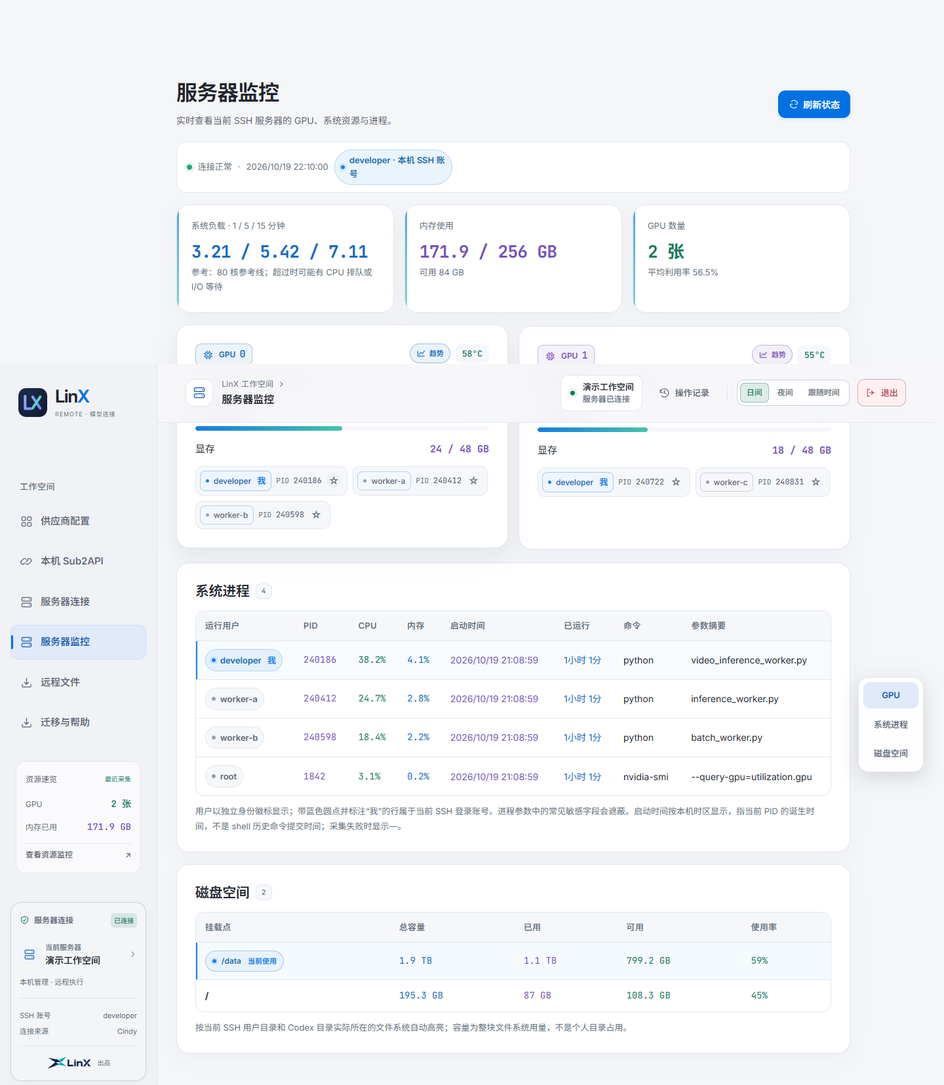
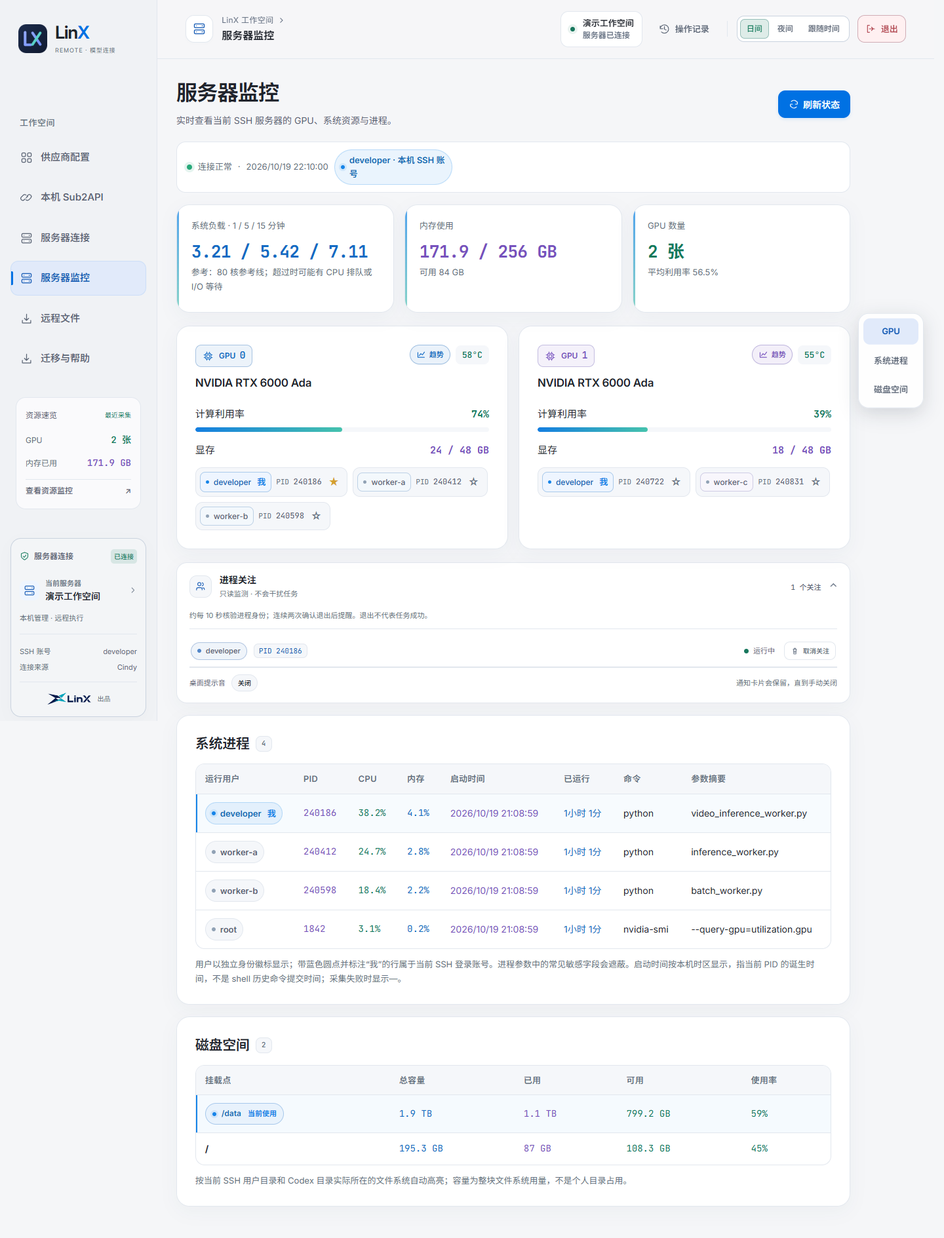
Release 1.9.2: polish persistent process alerts
Assisted-by: Cindy (https://cindy.app)

diff --git a/tools_ui.js b/tools_ui.js
@@ -1,7 +1,7 @@
 // Local UI state only; all remote operations use the existing authenticated API.
-const Tools={history:[],watches:[],events:[],seen:0,polling:false,trend:null,trendMetric:'utilization',minutes:5,diagnostics:null,diagnosing:false,files:null,path:'',offset:0,fileBusy:false,fileError:'',jobs:new Map(),loading:false};
+const Tools={history:[],watches:[],events:[],alerts:[],seen:0,polling:false,trend:null,trendMetric:'utilization',minutes:5,diagnostics:null,diagnosing:false,files:null,path:'',offset:0,fileBusy:false,fileError:'',jobs:new Map(),loading:false};
 function toolConnection(){return JSON.stringify(['connection_source','cindy_host','host','alias','user','port','identity','home'].map(k=>S.settings?.[k]||''))}
-function syncToolConnection(){const key=toolConnection();if(Tools.connection!==key){Tools.connection=key;Tools.history=[];Tools.watches=[];Tools.events=[];Tools.files=null;Tools.path='';Tools.diagnostics=null;Tools.fileError='';Tools.loading=false;if(Tools.trend!==null)closeTrend()}}
+function syncToolConnection(){const key=toolConnection();if(Tools.connection!==key){Tools.connection=key;Tools.history=[];Tools.watches=[];Tools.events=[];Tools.alerts=[];renderWatchAlerts();Tools.files=null;Tools.path='';Tools.diagnostics=null;Tools.fileError='';Tools.loading=false;if(Tools.trend!==null)closeTrend()}}
 function diagnosticPanel(){const d=Tools.diagnostics;return '<section class="panel tools-diagnostics"><div class="panelhead"><div><h2>连接诊断</h2><p>逐段检查 SSH、兼容桥、隧道和供应商；只读检查，不安装或重启服务。</p></div><button id="tools-diagnose" '+(Tools.diagnosing?'disabled':'')+'>'+(Tools.diagnosing?'检查中…':'一键诊断')+'</button></div>'+(d?'<div class="diagnostic-list">'+d.rows.map(r=>'<div class="diagnostic-item"><span class="diagnostic-state" data-state="'+E(r.status)+'">'+({ok:'正常',warning:'注意',error:'异常',skip:'无需 / 未检查'}[r.status]||'未知')+'</span><div><b>'+E(r.name)+'</b><p>'+E(r.detail)+'</p></div></div>').join('')+'</div><p class="monitor-note">检查时间：'+E(new Date(d.checked_at*1000).toLocaleString())+'。模型列表可达不代表推理请求已验证。</p>':'')+'</section>'}
 async function runDiagnostics(){if(Tools.diagnosing)return;Tools.diagnosing=true;const key=toolConnection();render();try{const d=await api('connection_diagnostics');if(key===toolConnection())Tools.diagnostics=d}catch(e){toast(e.message,true)}finally{Tools.diagnosing=false;if(S.page==='connection')render()}}
 function gpuHistory(gpu){return '<button class="gpu-trend-trigger" data-gpu-trend="'+E(gpu.index)+'" aria-label="查看 GPU '+E(gpu.index)+' 历史趋势" aria-haspopup="dialog"><svg viewBox="0 0 24 24" aria-hidden="true"><path d="M4 18V6m0 12h16M7 14l4-5 4 3 5-7"/></svg><span>趋势</span></button>'}
@@ -44,8 +44,10 @@ function fileKind(entry){
 }
 function fileTypeIcon(entry){const type=fileKind(entry),documentPath='<path d="M7 3.5h9l5 5V25a2 2 0 0 1-2 2H7a2 2 0 0 1-2-2V5.5a2 2 0 0 1 2-2Z"/><path class="file-icon-fold" d="M16 3.5V9h5"/>';const symbols={folder:'<path d="M3 9V6.5A2.5 2.5 0 0 1 5.5 4h6l3 3h9A2.5 2.5 0 0 1 26 9.5V23a2 2 0 0 1-2 2H5a2 2 0 0 1-2-2V9Z"/><path d="M3 10h23"/>',link:'<path d="m10 18 8-8m-6-2 2-2a5 5 0 0 1 7 7l-2 2m-2 7-2 2a5 5 0 0 1-7-7l2-2"/>',image:'<path d="m7 23 5-6 4 4 2-3 3 5"/><circle cx="11" cy="13" r="2"/>',code:'<path d="m11 14-3 3 3 3m7-6 3 3-3 3m-5 2 2-8"/>',sheet:'<path d="M9 13h9v10H9Zm0 4h9m-9 3h9m-5-7v10"/>',slides:'<path d="M9 13h9v8H9Zm5 8v3m-3 0h6m-6-6 2-2 2 1 2-2"/>',archive:'<path d="M14 10v3m0 2v3m0 2v3m-2-10h4m-4 5h4"/>',model:'<rect x="10" y="13" width="9" height="9" rx="2"/><path d="M13 10v3m3-3v3m-3 9v3m3-3v3m-9-9h3m-3 3h3m9-3h3m-3 3h3"/>',media:'<path d="m12 13 7 4-7 4Z"/>',markdown:'<path d="M8 21v-7l3 4 3-4v7m3-5v5m-2-2 2 2 2-2"/>',config:'<path d="M9 14h10m-10 7h10"/><circle cx="12" cy="14" r="2"/><circle cx="16" cy="21" r="2"/>',text:'<path d="M9 14h8m-8 4h8m-8 4h6"/>',document:'<path d="M9 14h8m-8 4h8m-8 4h6"/>',pdf:'<path d="m9 22 5-10 4 10m-7-3h6"/>'};return '<span class="file-type-icon file-type-'+type.kind+'" title="'+E(type.label)+'" data-file-type="'+type.kind+'"><svg viewBox="0 0 30 30" aria-hidden="true">'+(type.kind==='folder'||type.kind==='link'?symbols[type.kind]:documentPath+(symbols[type.kind]||symbols.text))+'</svg><span class="visually-hidden">'+E(type.label)+'</span></span>'}
 function processWatchButton(process){const watched=Tools.watches.find(w=>w.pid===process.pid&&w.ticks===process.start_ticks);if(!process.start_ticks)return '';return '<button type="button" class="process-watch" data-watch-pid="'+E(process.pid)+'" title="'+(watched?'取消关注此进程':'关注此进程，退出后提醒')+'" aria-label="'+(watched?'取消关注':'关注进程')+' PID '+E(process.pid)+'" aria-pressed="'+!!watched+'">'+(watched?'★':'☆')+'</button>'}
-function watchesPanel(){if(!Tools.watches.length&&!Tools.events.length)return '';const states={running:'运行中',checking:'正在确认退出',disconnected:'连接中断，等待恢复',unknown:'权限或状态不可读',exited:'已退出',restarted:'服务器已重启'};return '<details class="panel monitor-section watch-panel"><summary>进程关注 <span class="count">'+Tools.watches.length+'</span></summary><p class="monitor-note">约 10 秒核对 PID、启动标识和服务器启动身份，连续两次确认退出才提醒。退出不代表任务成功。仅在 LinX 管理服务运行期间有效，不会终止任务。</p>'+Tools.watches.map(w=>'<div class="watch-item"><span>'+E(w.user)+' · <b class="numeric">PID '+E(w.pid)+'</b></span><span>'+E(states[w.state]||w.state)+'</span><button class="subtle" data-watch-remove="'+E(w.id)+'">取消关注</button></div>').join('')+Tools.events.slice(-10).reverse().map(e=>'<p class="monitor-note">'+E(new Date(e.at*1000).toLocaleTimeString()+' · '+e.message)+'</p>').join('')+'</details>'}
-async function pollTools(){if(Tools.polling||!S.settings||!S.loaded)return;syncToolConnection();Tools.polling=true;const key=toolConnection();try{const d=await api('watch_status');if(key!==toolConnection())return;Tools.watches=d.watches||[];Tools.events=d.events||[];for(const e of Tools.events){if(e.id<=Tools.seen)continue;Tools.seen=e.id;toast(e.message);try{if('Notification'in window&&Notification.permission==='granted')new Notification('LinX Remote',{body:e.message,tag:'linx-process-'+e.id})}catch(_){}}if(S.page==='monitor'){const history=await api('monitor_history');if(key===toolConnection())Tools.history=history.samples||[];refreshTrend();if(S.page==='monitor'&&!document.activeElement?.closest('details'))render()}}catch(_){ }finally{Tools.polling=false}}
+function renderWatchAlerts(){let host=$('#watch-alert-host');if(!host){host=document.createElement('div');host.id='watch-alert-host';document.body.append(host)}host.innerHTML=Tools.alerts.map(e=>'<article class="watch-alert" role="alert"><div class="watch-alert-mark">!</div><div class="watch-alert-copy"><strong>进程关注提醒</strong><b>PID '+E(e.pid)+' 已退出</b><span>'+E(new Date(e.at*1000).toLocaleString())+'</span><small>进程退出不代表任务成功，请查看任务结果。</small></div><button type="button" class="watch-alert-close" data-dismiss-watch-alert="'+E(e.id)+'" aria-label="关闭进程退出提醒">'+I('close')+'</button></article>').join('');host.querySelectorAll('[data-dismiss-watch-alert]').forEach(b=>b.onclick=()=>{Tools.alerts=Tools.alerts.filter(e=>String(e.id)!==String(b.dataset.dismissWatchAlert));renderWatchAlerts();if(S.page==='monitor')render()});const shortcut=$('#watch-alert-shortcut');if(shortcut){shortcut.hidden=!Tools.alerts.length;shortcut.innerHTML=Tools.alerts.length?'提醒 <b>'+Tools.alerts.length+'</b> 条':'';shortcut.onclick=()=>{navigate('monitor');const panel=$('.watch-panel');if(panel)panel.open=true}}}
+function playWatchAlert(){try{const C=window.AudioContext||window.webkitAudioContext;if(!C)return;const c=new C(),o=c.createOscillator(),g=c.createGain();o.type='sine';o.frequency.value=740;g.gain.setValueAtTime(.0001,c.currentTime);g.gain.exponentialRampToValueAtTime(.07,c.currentTime+.025);g.gain.exponentialRampToValueAtTime(.0001,c.currentTime+.28);o.connect(g);g.connect(c.destination);o.start();o.stop(c.currentTime+.3);o.onended=()=>c.close()}catch(_){}}
+function watchesPanel(){if(!Tools.watches.length&&!Tools.events.length)return '';const states={running:'运行中',checking:'正在确认退出',disconnected:'等待连接恢复',unknown:'状态不可读',exited:'已退出',restarted:'服务器已重启'};return '<details class="panel monitor-section watch-panel"><summary class="watch-summary"><span class="watch-summary-icon"><svg viewBox="0 0 24 24" aria-hidden="true"><path d="M16 20v-1.5a3.5 3.5 0 0 0-3.5-3.5h-5A3.5 3.5 0 0 0 4 18.5V20"/><circle cx="10" cy="7.5" r="3.5"/><path d="M16 4.5a3.5 3.5 0 0 1 0 6.8m1 4.2h1a3 3 0 0 1 3 3v1"/></svg></span><span class="watch-summary-title"><b>进程关注</b><small>只读监测 · 不会干扰任务</small></span><span class="watch-summary-count">'+Tools.watches.length+' 个关注</span>'+(Tools.alerts.length?'<span class="watch-unread">'+Tools.alerts.length+' 条未读</span>':'')+'<span class="watch-chevron">⌄</span></summary><div class="watch-body"><p class="watch-explainer">约每 10 秒核验进程身份；连续两次确认退出后提醒。退出不代表任务成功。</p><div class="watch-list">'+Tools.watches.map(w=>'<div class="watch-item"><span class="watch-process"><span class="watch-user-pill"><i></i><b>'+E(w.user||'未知用户')+'</b></span><code>PID '+E(w.pid)+'</code></span><span class="watch-state" data-watch-state="'+E(w.state)+'"><i></i>'+E(states[w.state]||w.state)+'</span><button class="watch-unfollow" data-watch-remove="'+E(w.id)+'" title="取消关注此进程" aria-label="取消关注 PID '+E(w.pid)+'"><svg viewBox="0 0 24 24" aria-hidden="true"><path d="M7 7h10m-9 0 1 13h6l1-13M10 7V4h4v3m-3 4v5m2-5v5"/></svg><span>取消关注</span></button></div>').join('')+'</div>'+(Tools.events.length?'<div class="watch-history"><b>最近事件</b>'+Tools.events.slice(-5).reverse().map(e=>'<div><time>'+E(new Date(e.at*1000).toLocaleTimeString())+'</time><span>'+E(e.message)+'</span></div>').join('')+'</div>':'')+'<div class="watch-preferences"><span>桌面提示音</span><button type="button" class="watch-sound-toggle" aria-pressed="'+(localStorage.getItem('linxWatchSound')==='true')+'">'+(localStorage.getItem('linxWatchSound')==='true'?'开启':'关闭')+'</button><small>通知卡片会保留，直到手动关闭</small></div></div></details>'}
+async function pollTools(){if(Tools.polling||!S.settings||!S.loaded)return;syncToolConnection();Tools.polling=true;const key=toolConnection();try{const d=await api('watch_status');if(key!==toolConnection())return;Tools.watches=d.watches||[];Tools.events=d.events||[];for(const e of Tools.events){if(e.id<=Tools.seen)continue;Tools.seen=e.id;Tools.alerts.push(e);renderWatchAlerts();if(localStorage.getItem('linxWatchSound')==='true')playWatchAlert();toast(e.message);try{if('Notification'in window&&Notification.permission==='granted')new Notification('LinX Remote',{body:e.message,tag:'linx-process-'+e.id})}catch(_){}}if(S.page==='monitor'){const history=await api('monitor_history');if(key===toolConnection())Tools.history=history.samples||[];refreshTrend();if(S.page==='monitor'&&!document.activeElement?.closest('details'))render()}}catch(_){ }finally{Tools.polling=false}}
 async function toggleWatch(pid){const all=[...(S.monitor?.processes||[]),...(S.monitor?.gpus||[]).flatMap(g=>g.processes||[])],p=all.find(p=>String(p.pid)===String(pid));if(!p)return;const old=Tools.watches.find(w=>w.pid===p.pid&&w.ticks===p.start_ticks);try{if(!old&&'Notification'in window&&Notification.permission==='default')Notification.requestPermission().catch(()=>{});const d=old?await api('watch_remove',{id:old.id}):await api('watch_add',{pid:p.pid,ticks:p.start_ticks,user:p.user});Tools.watches=d.watches||[];Tools.events=d.events||[];render();toast(old?'已取消关注':'已关注；请保持 LinX Remote 运行以接收提醒')}catch(e){toast(e.message,true)}}
 function filesPage(){const f=Tools.files;const jobs=[...Tools.jobs.values()];return heading('远程文件','通过当前 SSH 浏览服务器目录，上传代码或下载结果。')+'<section class="panel"><form id="files-form" class="file-toolbar"><button type="button" id="files-home">个人目录</button><button type="button" id="files-up" '+(!f?'disabled':'')+'>上一级</button><input id="files-path" aria-label="服务器目录" value="'+E(Tools.path||f?.path||'')+'" placeholder="服务器绝对目录，留空进入个人目录"><button type="submit" '+(Tools.fileBusy?'disabled':'')+'>'+(Tools.fileBusy?'读取中…':'打开 / 刷新')+'</button></form><div class="file-toolbar"><label class="file-picker">选择本机文件上传<input id="files-upload" type="file" '+(!f?'disabled':'')+'></label><span class="monitor-note">单文件传输 · SHA256 校验 · 同名文件不覆盖</span></div>'+(Tools.fileError?'<p class="notice error">'+E(Tools.fileError)+'</p>':'')+'<div class="monitor-table-scroll"><table class="files-table"><thead><tr><th>名称</th><th>大小</th><th>修改时间</th><th>操作</th></tr></thead><tbody>'+(f?(f.entries||[]).map((entry,i)=>'<tr><td><button class="textbutton file-name" data-file-open="'+i+'" '+(entry.kind==='directory'?'':'disabled')+'>'+fileTypeIcon(entry)+'<span>'+E(entry.name)+'</span></button></td><td class="numeric">'+(entry.kind==='file'?monSize(entry.size/1024):E({directory:'目录',link:'符号链接',special:'特殊文件'}[entry.kind]||''))+'</td><td>'+E(new Date(entry.modified_at*1000).toLocaleString())+'</td><td>'+(entry.kind==='file'?'<button data-file-download="'+i+'">下载</button>':'')+'</td></tr>').join('')||'<tr><td colspan="4">此目录为空</td></tr>':'<tr><td colspan="4">打开目录后显示文件</td></tr>')+'</tbody></table></div><div class="file-toolbar"><button id="files-prev" '+(!f||!f.offset?'disabled':'')+'>上一页</button><span class="monitor-note">每页最多 200 项'+(f?' · 第 '+(Math.floor(f.offset/200)+1)+' 页':'')+'</span><button id="files-next" '+(!f?.more?'disabled':'')+'>下一页</button></div><p class="monitor-note">只显示当前 SSH 账号可访问的内容；文件夹可点击进入。符号链接和设备不提供下载；正在写入的文件可能校验失败，建议下载已完成的结果文件。</p></section><section class="panel monitor-section"><h2>文件传输</h2><p class="monitor-note">传输期间请保持软件运行。下载会先暂存本机并校验，再点击“保存到本机”；暂存文件一小时后清理。上传直接通过 SSH 流式传输，失败可重试。</p><div id="file-jobs">'+(jobs.length?jobs.map(j=>transferRow(j)).join(''):'<p class="monitor-note">暂无传输</p>')+'</div></section>'}
 function transferRow(j){const pct=j.total?Math.min(100,100*j.transferred/j.total):j.state==='done'?100:0;const labels={pending:'等待传输',running:'传输中',done:'已完成并校验',failed:'失败',saving:'正在保存'};return '<article class="transfer-row"><div class="row"><b>'+E(j.name)+'</b><span>'+E(j.direction==='upload'?'上传':'下载')+' · '+E(labels[j.state]||j.state)+'</span></div><progress max="100" value="'+pct+'" aria-label="'+E(j.name)+' 传输进度"></progress><p class="monitor-note numeric">'+monSize(j.transferred/1024)+' / '+monSize(j.total/1024)+' · '+monNum(pct)+'%</p>'+(j.error?'<p class="notice error">'+E(j.error)+'</p>':'')+(j.sha256?'<details><summary>SHA256 校验值</summary><code class="transfer-hash">'+E(j.sha256)+'</code></details>':'')+'<div class="actions">'+(j.direction==='download'&&j.state==='done'?'<button data-transfer-save="'+E(j.id)+'">保存到本机</button>':'')+(['done','failed','pending'].includes(j.state)?'<button class="subtle" data-transfer-discard="'+E(j.id)+'">清理记录'+(j.direction==='download'?'与暂存':'')+'</button>':'')+'</div></article>'}
@@ -55,6 +57,6 @@ async function startUpload(file){if(!file||!Tools.files)return;let id;try{const 
 async function saveDownload(id){const j=Tools.jobs.get(id);if(!j)return;let target=null;try{if(typeof window.showSaveFilePicker==='function'){try{target=await showSaveFilePicker({suggestedName:j.name})}catch(e){if(e.name==='AbortError')return;throw e}}const response=await fetch('/transfer/download',{method:'POST',headers:{'X-Kit-Token':token,'X-Transfer-Id':id}});if(!response.ok)throw Error('下载暂存已失效，请重新下载');if(target){const writable=await target.createWritable();await response.body.pipeTo(writable)}else{if(j.total>256*1024*1024)throw Error('当前浏览器无法流式保存大文件，请使用支持文件保存的 Chrome 或 Edge');const blob=await response.blob(),url=URL.createObjectURL(blob),a=document.createElement('a');a.href=url;a.download=j.name;a.click();setTimeout(()=>URL.revokeObjectURL(url),60000)}toast('文件已保存：'+j.name)}catch(e){toast(e.message||'文件保存未完成，请重试',true)}}
 function bindFiles(){if(!$('#files-form'))return;$('#files-form').onsubmit=e=>{e.preventDefault();loadFiles($('#files-path').value)};$('#files-path').oninput=e=>Tools.path=e.target.value;$('#files-home').onclick=()=>loadFiles('');$('#files-up').onclick=()=>loadFiles(Tools.files?.parent||'');$('#files-prev').onclick=()=>loadFiles(Tools.files.path,Math.max(0,Tools.files.offset-200));$('#files-next').onclick=()=>loadFiles(Tools.files.path,Tools.files.offset+200);$('#files-upload').onchange=e=>startUpload(e.target.files[0]);document.querySelectorAll('[data-file-open]').forEach(b=>b.onclick=()=>loadFiles(Tools.files.entries[Number(b.dataset.fileOpen)].path));document.querySelectorAll('[data-file-download]').forEach(b=>b.onclick=()=>startDownload(Tools.files.entries[Number(b.dataset.fileDownload)]));bindTransferActions()}
 function bindTransferActions(){document.querySelectorAll('[data-transfer-save]').forEach(b=>b.onclick=()=>saveDownload(b.dataset.transferSave));document.querySelectorAll('[data-transfer-discard]').forEach(b=>b.onclick=async()=>{try{await api('transfer_discard',{id:b.dataset.transferDiscard});Tools.jobs.delete(b.dataset.transferDiscard);render()}catch(e){toast(e.message,true)}})}
-function bindToolFeatures(){syncToolConnection();if($('#tools-diagnose'))$('#tools-diagnose').onclick=runDiagnostics;document.querySelectorAll('[data-gpu-trend]').forEach(b=>b.onclick=()=>openTrend(b.dataset.gpuTrend));if(Tools.trend!==null&&S.page!=='monitor')closeTrend();document.querySelectorAll('[data-watch-pid]').forEach(b=>b.onclick=()=>toggleWatch(b.dataset.watchPid));document.querySelectorAll('[data-watch-remove]').forEach(b=>b.onclick=async()=>{try{const d=await api('watch_remove',{id:b.dataset.watchRemove});Tools.watches=d.watches||[];render()}catch(e){toast(e.message,true)}});bindFiles()}
+function bindToolFeatures(){syncToolConnection();if($('#tools-diagnose'))$('#tools-diagnose').onclick=runDiagnostics;document.querySelectorAll('[data-gpu-trend]').forEach(b=>b.onclick=()=>openTrend(b.dataset.gpuTrend));if(Tools.trend!==null&&S.page!=='monitor')closeTrend();document.querySelectorAll('[data-watch-pid]').forEach(b=>b.onclick=()=>toggleWatch(b.dataset.watchPid));document.querySelectorAll('[data-watch-remove]').forEach(b=>b.onclick=async()=>{try{const d=await api('watch_remove',{id:b.dataset.watchRemove});Tools.watches=d.watches||[];render()}catch(e){toast(e.message,true)}});const sound=$('.watch-sound-toggle');if(sound)sound.onclick=()=>{const on=localStorage.getItem('linxWatchSound')!=='true';localStorage.setItem('linxWatchSound',String(on));sound.textContent=on?'开启':'关闭';sound.setAttribute('aria-pressed',String(on));if(on)playWatchAlert()};bindFiles()}
 let transferPoll=false;setInterval(async()=>{if(transferPoll)return;const jobs=[...Tools.jobs.values()].filter(j=>['pending','running','saving'].includes(j.state));if(!jobs.length)return;transferPoll=true;try{for(const j of jobs){try{Tools.jobs.set(j.id,await api('transfer_status',{id:j.id}))}catch(_){}}if(S.page==='files'&&$('#file-jobs')){$('#file-jobs').innerHTML=[...Tools.jobs.values()].map(transferRow).join('');bindTransferActions()}}finally{transferPoll=false}},1500);
 setInterval(()=>{if(S.loaded)pollTools()},10000);

diff --git a/manager_ui.html b/manager_ui.html
@@ -341,8 +341,8 @@ button,.field input,.field select{font-size:14px}.field small,.notice,.info-list
 <button class="server-workspace" id="server-settings" title="管理服务器连接"><span class="workspace-icon"><svg aria-hidden="true"><use href="#server"/></svg></span><span class="workspace-copy"><span>当前服务器</span><b id="servermini">正在读取…</b></span><svg class="workspace-chevron" aria-hidden="true" viewBox="0 0 24 24"><path d="m9 5 7 7-7 7"/></svg></button>
 <p class="workspace-footer-copy">本机管理 · 远程执行</p>
 <dl class="workspace-footer-details"><div><dt>SSH 账号</dt><dd id="footer-user">—</dd></div><div><dt>连接来源</dt><dd id="footer-source">—</dd></div></dl>
-<div class="footer-meta"><div class="makercredit"><div class="linx-maker-lockup" aria-label="LinX 出品"><img class="linx-maker-color" src="/assets/brand/lockup_color.svg" alt="LinX" width="70" height="22"><img class="linx-maker-white" src="/assets/brand/lockup_white.svg" alt="LinX" width="70" height="22"><small>出品</small></div></div></div></section></div></aside><div class="main"><header class="topbar"><nav class="workspace-breadcrumb" aria-label="当前位置"><span class="header-page-icon" aria-hidden="true"><svg><use id="header-page-icon" href="#grid"/></svg></span><span class="header-context-copy"><span class="header-workspace-label">LinX 工作空间<svg aria-hidden="true" viewBox="0 0 24 24"><path d="m9 5 7 7-7 7"/></svg></span><b id="crumb" aria-current="page">供应商配置</b></span></nav><div class="header-tools"><button class="connection" id="header-connection" type="button" title="查看服务器连接设置"><span class="dotstatus" id="statusdot" aria-hidden="true"></span><span class="header-connection-copy"><span id="header-server">正在读取服务器</span><span id="connectiontext" role="status">正在连接服务器…</span></span></button><button class="header-action" id="logs" type="button" title="查看操作记录" aria-label="查看操作记录"><svg aria-hidden="true" viewBox="0 0 24 24"><path d="M3 11a9 9 0 1 1 2.6 7M3 5v6h6m3-5v6l4 2"/></svg><span>操作记录</span></button><span class="header-divider" aria-hidden="true"></span><div class="theme-control appearance-segments" role="group" aria-label="外观模式"><button id="theme-light" type="button" data-appearance="light" aria-pressed="false">日间</button><button id="theme-dark" type="button" data-appearance="dark" aria-pressed="false">夜间</button><button id="theme-auto" type="button" data-appearance="auto" aria-pressed="true" title="7:00–19:00 日间，其余时间夜间">跟随时间</button></div><button id="quit" class="header-action header-quit" title="退出管理界面，后台隧道继续运行" aria-label="退出管理界面"><svg aria-hidden="true" viewBox="0 0 24 24"><path d="M10 4H5v16h5m4-12 4 4-4 4m-5-4h12"/></svg><span>退出</span></button></div></header><main class="content" id="content"></main></div></div>
-<div class="feedback-stack" aria-label="操作提示"><div class="busybox" id="busy" role="status" aria-live="polite"><span class="spinner" aria-hidden="true"></span><span id="busytext"></span></div><div id="toasthost" aria-live="polite" aria-atomic="true"></div></div><div id="modalhost"></div><div id="testhost"></div><div id="drawerhost"></div>
+<div class="footer-meta"><div class="makercredit"><div class="linx-maker-lockup" aria-label="LinX 出品"><img class="linx-maker-color" src="/assets/brand/lockup_color.svg" alt="LinX" width="70" height="22"><img class="linx-maker-white" src="/assets/brand/lockup_white.svg" alt="LinX" width="70" height="22"><small>出品</small></div></div></div></section></div></aside><div class="main"><header class="topbar"><nav class="workspace-breadcrumb" aria-label="当前位置"><span class="header-page-icon" aria-hidden="true"><svg><use id="header-page-icon" href="#grid"/></svg></span><span class="header-context-copy"><span class="header-workspace-label">LinX 工作空间<svg aria-hidden="true" viewBox="0 0 24 24"><path d="m9 5 7 7-7 7"/></svg></span><b id="crumb" aria-current="page">供应商配置</b></span></nav><div class="header-tools"><button class="connection" id="header-connection" type="button" title="查看服务器连接设置"><span class="dotstatus" id="statusdot" aria-hidden="true"></span><span class="header-connection-copy"><span id="header-server">正在读取服务器</span><span id="connectiontext" role="status">正在连接服务器…</span></span></button><button class="header-action" id="logs" type="button" title="查看操作记录" aria-label="查看操作记录"><svg aria-hidden="true" viewBox="0 0 24 24"><path d="M3 11a9 9 0 1 1 2.6 7M3 5v6h6m3-5v6l4 2"/></svg><span>操作记录</span></button><button class="header-action watch-alert-shortcut" id="watch-alert-shortcut" type="button" hidden aria-label="查看未读进程提醒"></button><span class="header-divider" aria-hidden="true"></span><div class="theme-control appearance-segments" role="group" aria-label="外观模式"><button id="theme-light" type="button" data-appearance="light" aria-pressed="false">日间</button><button id="theme-dark" type="button" data-appearance="dark" aria-pressed="false">夜间</button><button id="theme-auto" type="button" data-appearance="auto" aria-pressed="true" title="7:00–19:00 日间，其余时间夜间">跟随时间</button></div><button id="quit" class="header-action header-quit" title="退出管理界面，后台隧道继续运行" aria-label="退出管理界面"><svg aria-hidden="true" viewBox="0 0 24 24"><path d="M10 4H5v16h5m4-12 4 4-4 4m-5-4h12"/></svg><span>退出</span></button></div></header><main class="content" id="content"></main></div></div>
+<div class="feedback-stack" aria-label="操作提示"><div class="busybox" id="busy" role="status" aria-live="polite"><span class="spinner" aria-hidden="true"></span><span id="busytext"></span></div><div id="toasthost" aria-live="polite" aria-atomic="true"></div></div><div id="watch-alert-host" aria-live="assertive" aria-label="进程退出提醒"></div><div id="modalhost"></div><div id="testhost"></div><div id="drawerhost"></div>
 <script>
 document.title='LinX Remote';
 'use strict';
@@ -442,7 +442,7 @@ function syncSidebar(){
  $('#sidebar-gpu').textContent=d?(d.gpus||[]).length+' 张':'—';
  $('#sidebar-memory').textContent=d?.memory?.used!=null?monNum(Number(d.memory.used)/1024)+' GB':'—';
 }
-function render(){syncToolConnection();document.querySelectorAll('[data-page]').forEach(b=>{b.classList.toggle('active',b.dataset.page===S.page);b.setAttribute('aria-current',b.dataset.page===S.page?'page':'false')});$('#crumb').textContent=labels[S.page];const hostId=S.settings?.connection_source==='cindy'?S.settings.cindy_host:S.settings?.alias;const server=S.settings?(S.settings.host||(S.cindyConnections?.hosts||[]).find(h=>h.id===hostId)?.name||S.settings.alias):'正在读取…';$('#servermini').textContent=server;$('#header-server').textContent=server;syncSidebar();$('#header-page-icon').setAttribute('href','#'+({providers:'grid',tunnel:'link',connection:'server',monitor:'server',help:'move'}[S.page]||'grid'));$('#content').innerHTML=pages[S.page]();bindPage()}
+function render(){const watchOpen=$('.watch-panel')?.open;syncToolConnection();document.querySelectorAll('[data-page]').forEach(b=>{b.classList.toggle('active',b.dataset.page===S.page);b.setAttribute('aria-current',b.dataset.page===S.page?'page':'false')});$('#crumb').textContent=labels[S.page];const hostId=S.settings?.connection_source==='cindy'?S.settings.cindy_host:S.settings?.alias;const server=S.settings?(S.settings.host||(S.cindyConnections?.hosts||[]).find(h=>h.id===hostId)?.name||S.settings.alias):'正在读取…';$('#servermini').textContent=server;$('#header-server').textContent=server;syncSidebar();$('#header-page-icon').setAttribute('href','#'+({providers:'grid',tunnel:'link',connection:'server',monitor:'server',help:'move'}[S.page]||'grid'));$('#content').innerHTML=pages[S.page]();bindPage();const nextWatch=$('.watch-panel');if(nextWatch&&watchOpen!==undefined)nextWatch.open=watchOpen}
 function catalogPanel(){
  const c=S.catalog;if(!c||!S.active)return '';
  const good=c.status==='synced',pending=c.status==='pending';

diff --git a/tools_ui.css b/tools_ui.css
@@ -13,3 +13,9 @@
 .monitor-gpus .gpu-trend-trigger:hover{background:color-mix(in srgb,var(--gpu-accent,var(--blue)) 16%,var(--surface));border-color:color-mix(in srgb,var(--gpu-accent,var(--blue)) 65%,var(--line));box-shadow:0 2px 8px color-mix(in srgb,var(--gpu-accent,var(--blue)) 10%,transparent)}
 .monitor-gpus .gpu-trend-trigger:focus-visible{outline:3px solid var(--ring);outline-offset:3px}
 @media(max-width:640px){.monitor-gpus .gpu-trend-trigger{padding:5px 8px;min-height:30px;gap:4px}.monitor-gpus .gpu-header-actions{gap:6px}}
+.watch-panel{padding:0!important;overflow:hidden;border-radius:16px}.watch-panel>summary{list-style:none}.watch-panel>summary::-webkit-details-marker{display:none}.watch-summary{display:flex;align-items:center;gap:12px;min-height:62px;padding:15px 19px;cursor:pointer;user-select:none}.watch-summary:hover{background:color-mix(in srgb,var(--surface-soft) 52%,transparent)}.watch-summary-icon{display:grid;place-items:center;width:34px;height:34px;flex:none;border:1px solid var(--line);border-radius:11px;background:var(--surface-soft);color:var(--blue-ink)}.watch-summary-icon svg{width:17px;height:17px}.watch-summary-title{display:flex;flex-direction:column;gap:2px}.watch-summary-title b{font-size:14px}.watch-summary-title small,.watch-explainer,.watch-preferences small{font-size:11px;color:var(--muted)}.watch-summary-count{margin-left:auto;font:500 11px var(--font-number);color:var(--secondary)}.watch-unread{padding:4px 8px;border-radius:999px;background:var(--bad-bg);color:var(--bad);font-size:10px;font-weight:600}.watch-chevron{color:var(--muted);transition:transform .18s ease}.watch-panel[open] .watch-chevron{transform:rotate(180deg)}.watch-body{padding:0 19px 17px}.watch-explainer{margin:0 0 9px;padding-bottom:11px;border-bottom:1px solid var(--line)}.watch-list{display:grid}.watch-item{display:grid;grid-template-columns:minmax(0,1fr) auto auto;gap:14px;align-items:center;padding:10px 2px;border-bottom:1px solid var(--line)}.watch-process{display:flex;align-items:center;gap:10px;min-width:0}.watch-process b{overflow:hidden;text-overflow:ellipsis;white-space:nowrap;font-size:12px;color:var(--secondary)}.watch-process code{padding:3px 7px;border:1px solid var(--line);border-radius:7px;font:11px var(--font-number);color:var(--blue-ink);background:var(--surface-soft)}.watch-state{display:inline-flex;align-items:center;gap:7px;font-size:11px;color:var(--secondary)}.watch-state i{width:7px;height:7px;border-radius:50%;background:var(--good)}.watch-state[data-watch-state=checking] i,.watch-state[data-watch-state=disconnected] i,.watch-state[data-watch-state=unknown] i{background:var(--warn)}.watch-state[data-watch-state=exited] i,.watch-state[data-watch-state=restarted] i{background:var(--bad)}.watch-item button{min-height:28px;padding:4px 9px;font-size:10px}.watch-history{display:grid;gap:7px;padding:12px 0}.watch-history>b{color:var(--secondary);font-size:11px}.watch-history>div{display:grid;grid-template-columns:72px minmax(0,1fr);gap:10px;font-size:11px}.watch-history time{color:var(--muted);font:10px var(--font-number)}.watch-history span{color:var(--secondary);overflow-wrap:anywhere}.watch-preferences{display:flex;align-items:center;gap:9px;padding-top:10px;border-top:1px solid var(--line);font-size:11px;color:var(--secondary)}.watch-preferences small{margin-left:auto}.watch-sound-toggle{min-height:26px;padding:3px 9px;border:1px solid var(--line);border-radius:999px;background:var(--surface-soft);font-size:10px}.watch-sound-toggle[aria-pressed=true]{color:var(--good);border-color:var(--good)}
+#watch-alert-host{position:fixed;z-index:120;right:max(22px,env(safe-area-inset-right));bottom:max(22px,env(safe-area-inset-bottom));display:flex;flex-direction:column;gap:12px;width:min(390px,calc(100vw - 32px));pointer-events:none}.watch-alert{display:flex;align-items:flex-start;gap:12px;padding:15px 16px;border:1px solid color-mix(in srgb,var(--bad) 48%,var(--line));border-left:3px solid var(--bad);border-radius:14px;background:var(--surface);color:var(--ink);box-shadow:0 12px 36px color-mix(in srgb,var(--ink) 22%,transparent);pointer-events:auto;animation:watch-alert-in .22s ease-out}.watch-alert-mark{display:grid;place-items:center;flex:0 0 24px;height:24px;border-radius:50%;background:var(--bad);color:var(--surface);font-weight:800}.watch-alert-copy{display:flex;flex:1;min-width:0;flex-direction:column;gap:3px}.watch-alert-copy strong{font-size:11px;color:var(--bad);letter-spacing:.03em}.watch-alert-copy b{font:600 14px var(--font-number);overflow-wrap:anywhere}.watch-alert-copy span,.watch-alert-copy small{color:var(--muted);font-size:11px;line-height:1.5}.watch-alert-close{display:grid;place-items:center;width:27px;height:27px;min-height:27px;padding:5px;border:0;border-radius:8px;background:transparent;color:var(--muted)}.watch-alert-close:hover{background:color-mix(in srgb,currentColor 10%,transparent);color:var(--ink)}.watch-alert-close svg{width:16px;height:16px}.watch-unread{background:var(--bad);color:var(--surface)}
+@keyframes watch-alert-in{from{opacity:0;transform:translateY(10px)}to{opacity:1;transform:none}}
+@media(max-width:640px){#watch-alert-host{right:12px;bottom:12px;width:calc(100vw - 24px)}.watch-summary{gap:8px;padding:12px}.watch-summary-count{font-size:10px}.watch-body{padding:0 12px 13px}.watch-item{grid-template-columns:minmax(0,1fr) auto;gap:7px}.watch-item button{grid-column:2;grid-row:1}.watch-state{grid-column:1;grid-row:2}.watch-preferences{flex-wrap:wrap}.watch-preferences small{flex-basis:100%;margin-left:0}}
+.watch-alert-shortcut{gap:6px;padding:6px 10px;border:1px solid color-mix(in srgb,var(--bad) 45%,var(--line));border-radius:999px;color:var(--bad);font-size:11px}.watch-alert-shortcut[hidden]{display:none}.watch-alert-shortcut b{font:600 11px var(--font-number)}
+.watch-user-pill{display:inline-flex;align-items:center;gap:7px;max-width:160px;padding:4px 9px;border:1px solid color-mix(in srgb,var(--blue-ink) 25%,var(--line));border-radius:999px;background:color-mix(in srgb,var(--blue-ink) 7%,var(--surface));color:var(--blue-ink)}.watch-user-pill i{width:6px;height:6px;flex:none;border-radius:50%;background:var(--blue-ink);opacity:.72}.watch-user-pill b{overflow:hidden;text-overflow:ellipsis;white-space:nowrap;font-size:11px;font-weight:550}.watch-unfollow{display:inline-flex;align-items:center;justify-content:center;gap:6px;min-height:29px;padding:4px 9px;border:1px solid var(--line);border-radius:9px;background:var(--surface);color:var(--muted);font-size:10px;transition:color .15s ease,border-color .15s ease,background .15s ease}.watch-unfollow svg{width:13px;height:13px;fill:none;stroke:currentColor;stroke-width:1.7;stroke-linecap:round;stroke-linejoin:round}.watch-unfollow:hover{border-color:color-mix(in srgb,var(--bad) 40%,var(--line));background:var(--bad-bg);color:var(--bad)}.watch-unfollow:focus-visible,.watch-alert-close:focus-visible{outline:2px solid var(--ring);outline-offset:2px}.watch-alert-close{border:1px solid var(--line);background:var(--surface-soft);transition:background .15s ease,color .15s ease,border-color .15s ease}.watch-alert-close:hover{border-color:color-mix(in srgb,var(--bad) 35%,var(--line));background:var(--bad-bg);color:var(--bad)}

diff --git a/tools/screenshots.py b/tools/screenshots.py
@@ -59,6 +59,7 @@ def main():
     assets = ROOT/'docs/assets'
     assets.mkdir(parents=True, exist_ok=True)
     calls, errors = [], []
+    watch_events=[];watch_rows=[]
     empty = False
 
     def route(request):
@@ -92,11 +93,13 @@ def main():
                 now=int(time.time())
                 data=dict(samples=[dict(at=now-i*5,gpus=[dict(g,index=g['index'],utilization=max(0,min(100,g['utilization']+15*math.sin(i/4)+5*math.sin(i/9))),memory_used=g['memory_used']*(1+.04*math.sin(i/8)),temperature=g['temperature']+3*math.sin(i/10)) for g in MONITOR['gpus']]) for i in reversed(range(60)) if i not in range(31,36)])
             elif op == 'watch_status':
-                data=dict(watches=[],events=[],enabled=False)
+                data=dict(watches=watch_rows,events=watch_events,enabled=bool(watch_rows))
             elif op == 'watch_add':
-                data=dict(watches=[dict(id='demo-watch',pid=int(payload['pid']),ticks=payload['ticks'],user=payload['user'],state='running')],events=[])
+                watch_rows[:]=[dict(id='demo-watch',pid=int(payload['pid']),ticks=payload['ticks'],user=payload['user'],state='running')]
+                data=dict(watches=watch_rows,events=watch_events)
             elif op == 'watch_remove':
-                data=dict(watches=[],events=[])
+                watch_rows.clear()
+                data=dict(watches=watch_rows,events=watch_events)
             elif op == 'connection_diagnostics':
                 data=dict(checked_at=1792419000,rows=[dict(name='SSH / Python',status='ok',detail='只读检查通过'),dict(name='远端兼容桥',status='error',detail='演示故障：服务未响应')])
             elif op == 'files_list':
@@ -179,8 +182,28 @@ def main():
         page.locator('[data-watch-pid="240186"]').first.click()
         page.wait_for_function('Tools.watches.length === 1')
         assert page.locator('[data-watch-pid="240186"]').first.get_attribute('aria-pressed') == 'true'
-        page.locator('[data-watch-pid="240186"]').first.click()
-        page.wait_for_function('Tools.watches.length === 0')
+        page.locator('.watch-panel').evaluate('(e)=>e.open=true')
+        page.evaluate('render()')
+        assert page.locator('.watch-panel').evaluate('(e)=>e.open'), 'watch panel collapsed after page render'
+        assert page.locator('.watch-summary-icon').count()==1
+        assert page.locator('.watch-state[data-watch-state=running]').count()==1
+        page.evaluate("localStorage.setItem('linxWatchSound','true');render()")
+        assert page.locator('.watch-sound-toggle').get_attribute('aria-pressed')=='true'
+        page.evaluate("localStorage.setItem('linxWatchSound','false');render()")
+        assert page.locator('.watch-sound-toggle').get_attribute('aria-pressed')=='false'
+        page.evaluate("Tools.alerts=[{id:999,pid:240186,at:Date.now()/1000}];renderWatchAlerts()")
+        assert page.locator('.watch-alert').is_visible()
+        assert page.locator('#watch-alert-shortcut').is_visible()
+        assert '1' in page.locator('#watch-alert-shortcut').inner_text()
+        page.evaluate('render()')
+        assert page.locator('.watch-alert').is_visible(), 'alert did not persist across page render'
+        assert '1 条未读' in page.locator('.watch-panel summary').inner_text()
+        page.locator('#watch-alert-shortcut').click()
+        assert page.locator('.watch-panel').evaluate('(e)=>e.open'), 'notification shortcut did not reopen the watch panel'
+        page.locator('[data-dismiss-watch-alert]').click()
+        assert page.locator('.watch-alert').count()==0
+        assert page.locator('#watch-alert-shortcut').is_hidden()
+        page.evaluate('Tools.alerts=[];renderWatchAlerts()')
         page.evaluate('render();clearToast()')
         page.screenshot(path=str(assets/'server-monitor.png'), full_page=True, animations='disabled')
         page.locator('.section-rail button').nth(1).click()
@@ -233,7 +256,7 @@ def main():
         assert 'list' not in calls and 'updates_check' not in calls
         assert not errors, errors
         browser.close()
-    print('Ten fictional screenshots generated; trend dialog, file icons, 36 page layouts and isolated first-run behavior passed.')
+    print('Ten fictional screenshots generated; persistent watch alert, panel state, sound toggle, trend dialog, file icons, 36 page layouts and isolated first-run behavior passed.')
 
 
 if __name__ == '__main__':

diff --git a/README.en.md b/README.en.md
@@ -81,7 +81,7 @@ This is **an independent third-party project by LinX**, not an official Cindy or
 
 The Python service samples the configured server about every 5 seconds while the app runs, even on another page, minimized or with a throttled browser. History is in memory for the latest 30 minutes, at most 360 samples. Network outages, computer sleep and app shutdown leave gaps; missing data is never fabricated. Opening more pages does not create more samplers.
 
-**Process exit alerts:** star a process to check its PID start identity and server boot identity about every 10 seconds. Two confirmations are required; disconnection and unreadable identities are not exits. An exit does not imply task success. Alerts require the running management service; OS notifications require permission. Watches and history do not survive restarts. Creation time is for the current PID, not a shell history entry.
+**Process exit alerts:** star a process to check its PID start identity and server boot identity about every 10 seconds. Two confirmations are required; disconnection and unreadable identities are not exits. An exit does not imply task success. A fixed lower-right alert remains until dismissed, and a header counter shows unread alerts. Optional sound is off by default and can be enabled in the watch panel; OS notifications are a secondary channel. Alerts are held for the current run; recreate watches after restart. Creation time is for the current PID, not a shell history entry.
 
 **Remote files:** browse directories accessible to the SSH account, with file-type icons and up to 200 entries per page. Stream individual files with SHA256 verification; no extra remote service is needed. Uploads never overwrite existing files. Download, verify, then select Save locally. Supported browsers stream through the native save dialog; fallback saves are limited to 256 MiB. Uploads are limited to 100 GiB per file, four concurrent transfers. No recursive directories, resume or symlink downloads. Failed uploads remove temporary files; local staging expires after an hour while running, with expired leftovers cleaned at the next launch. Keep the app running during transfers.
 

diff --git a/CHANGELOG.md b/CHANGELOG.md
@@ -1,5 +1,17 @@
 # 更新记录
 
+## 1.9.2 - 2026-11-13
+
+- 关注面板用户名改为紧凑身份徽标，运行状态更易扫读。
+- 取消关注与提醒关闭按钮增加一致的图标、边框、悬停和键盘焦点样式。
+- 更新服务器监控演示截图，并通过实际界面布局与交互回归。
+
+## 1.9.1 - 2026-11-13
+
+- 进程关注面板改为紧凑状态列表，监控刷新时保留展开状态。
+- 退出提醒改为需手动关闭的固定卡片，增加顶部未读数与可选提示音（默认关闭）；系统通知作为辅助。
+- 重拍服务器监控演示图，并验证未读数、提醒关闭、声音开关与页面刷新后的状态。
+
 ## 1.9.0 - 2026-11-12
 
 - 新增只读连接诊断，分段检查 SSH、兼容桥、供应商和本机隧道，不安装、不重启、不发送推理请求。
